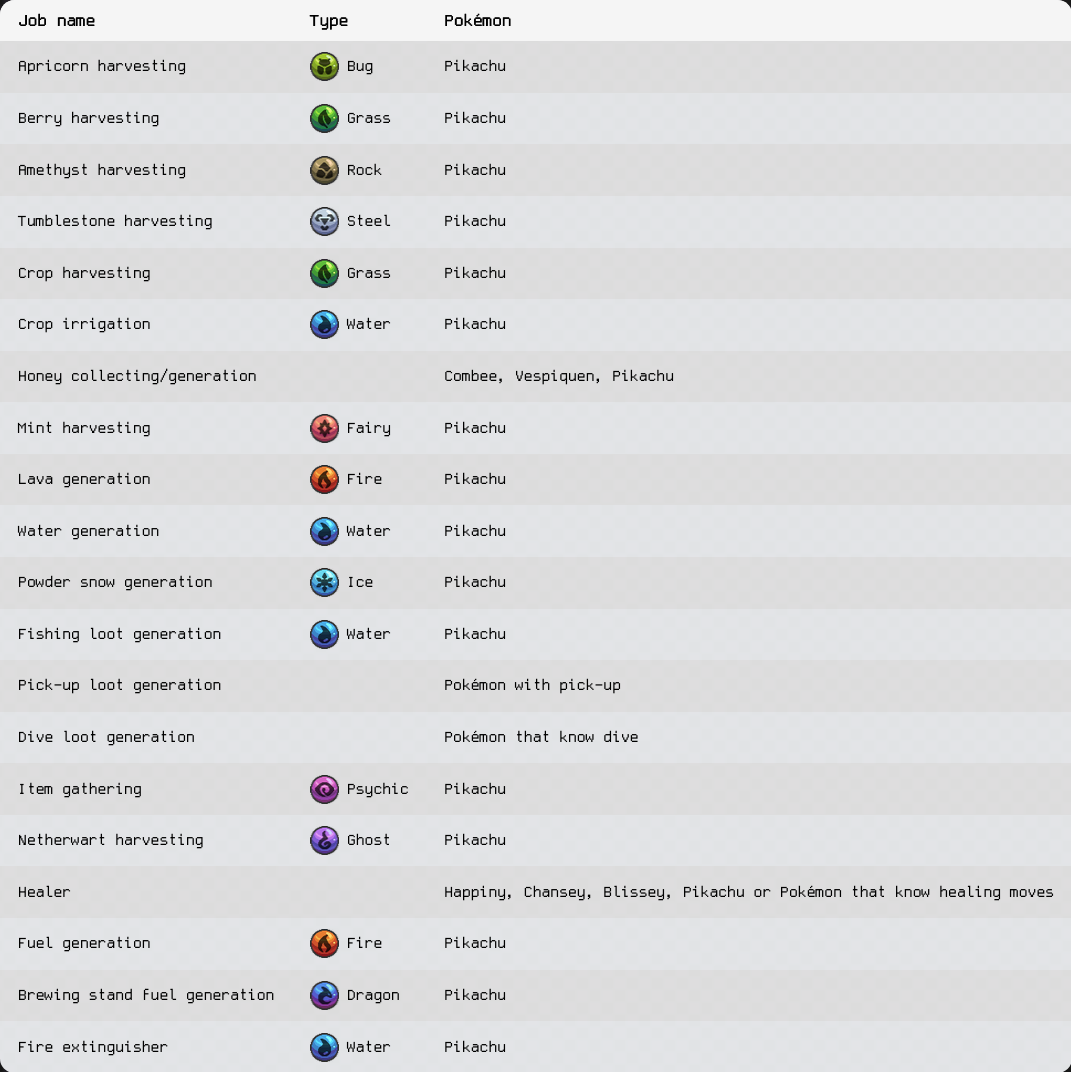
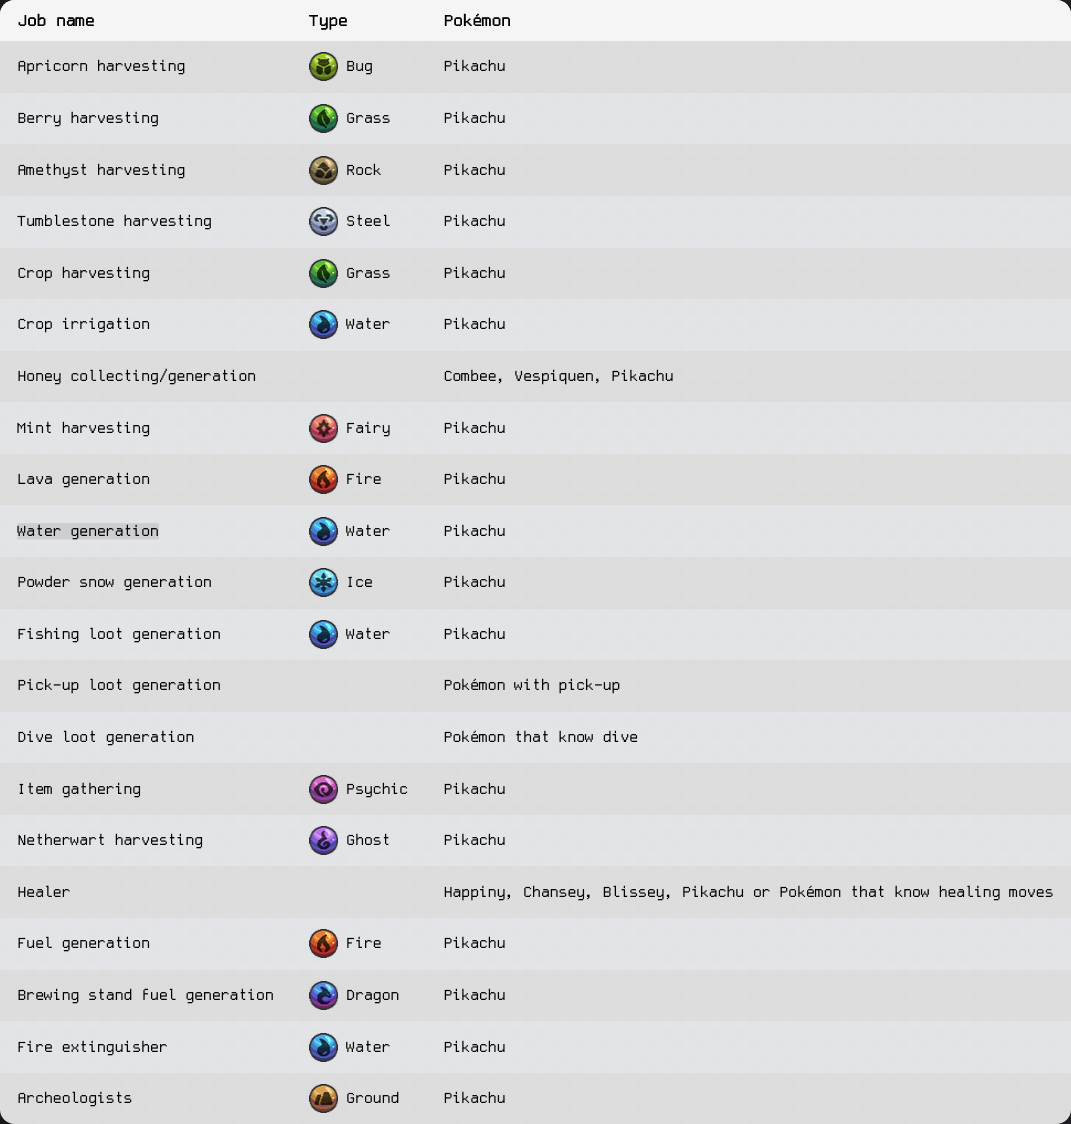
Implement archeologists

diff --git a/common/src/main/kotlin/accieo/cobbleworkers/jobs/Archeologist.kt b/common/src/main/kotlin/accieo/cobbleworkers/jobs/Archeologist.kt
@@ -1,0 +1,167 @@
+/*
+ * Copyright (C) 2025 Accieo
+ *
+ * This Source Code Form is subject to the terms of the Mozilla Public
+ * License, v. 2.0. If a copy of the MPL was not distributed with this
+ * file, You can obtain one at https://mozilla.org/MPL/2.0/.
+ */
+
+package accieo.cobbleworkers.jobs
+
+import accieo.cobbleworkers.cache.CobbleworkersCacheManager
+import accieo.cobbleworkers.config.CobbleworkersConfigHolder
+import accieo.cobbleworkers.enums.JobType
+import accieo.cobbleworkers.interfaces.Worker
+import accieo.cobbleworkers.utilities.CobbleworkersInventoryUtils
+import accieo.cobbleworkers.utilities.CobbleworkersNavigationUtils
+import accieo.cobbleworkers.utilities.CobbleworkersTypeUtils
+import com.cobblemon.mod.common.entity.pokemon.PokemonEntity
+import net.minecraft.block.Block
+import net.minecraft.block.Blocks
+import net.minecraft.item.ItemStack
+import net.minecraft.loot.context.LootContextParameterSet
+import net.minecraft.loot.context.LootContextParameters
+import net.minecraft.loot.context.LootContextTypes
+import net.minecraft.registry.RegistryKey
+import net.minecraft.registry.RegistryKeys
+import net.minecraft.server.world.ServerWorld
+import net.minecraft.util.Identifier
+import net.minecraft.util.math.BlockPos
+import net.minecraft.world.World
+import java.util.UUID
+import kotlin.text.lowercase
+
+object Archeologist : Worker {
+    private val config = CobbleworkersConfigHolder.config.archeology
+    private val cooldownTicks get() = config.archeologyLootingCooldownSeconds * 20L
+    private val lastGenerationTime = mutableMapOf<UUID, Long>()
+    private val heldItemsByPokemon = mutableMapOf<UUID, List<ItemStack>>()
+    private val failedDepositLocations = mutableMapOf<UUID, MutableSet<BlockPos>>()
+    private val validBlocks: Set<Block> = setOf(
+        Blocks.DIRT,
+        Blocks.GRAVEL,
+        Blocks.MUD,
+        Blocks.COARSE_DIRT,
+        Blocks.ROOTED_DIRT,
+    )
+
+    override val jobType: JobType = JobType.Archeologist
+    override val blockValidator: ((World, BlockPos) -> Boolean) = { world: World, pos: BlockPos ->
+        val state = world.getBlockState(pos)
+        val aboveState = world.getBlockState(pos.up())
+        state.block in validBlocks && aboveState.isAir
+    }
+
+    /**
+     * Determines if Pokémon is eligible to be an archeologist.
+     * NOTE: This is used to prevent running the tick method unnecessarily.
+     */
+    override fun shouldRun(pokemonEntity: PokemonEntity): Boolean {
+        if (!config.archeologistsEnabled) return false
+
+        return  CobbleworkersTypeUtils.isAllowedByType(config.typeDoesArcheology, pokemonEntity) || isDesignatedHarvester(pokemonEntity)
+    }
+
+    /**
+     * Main logic loop for the archeologist, executed each tick.
+     * Delegates to state handlers handleHarvesting and handleDepositing
+     * to manage the current task of the Pokémon.
+     *
+     * NOTE: Origin refers to the pasture's block position.
+     */
+    override fun tick(world: World, origin: BlockPos, pokemonEntity: PokemonEntity) {
+        val pokemonId = pokemonEntity.pokemon.uuid
+        val heldItems = heldItemsByPokemon[pokemonId]
+
+        if (heldItems.isNullOrEmpty()) {
+            failedDepositLocations.remove(pokemonId)
+            handleHarvesting(world, origin, pokemonEntity)
+        } else {
+            CobbleworkersInventoryUtils.handleDepositing(world, origin, pokemonEntity, heldItems,
+                failedDepositLocations,
+                heldItemsByPokemon
+            )
+        }
+    }
+
+    /**
+     * Handles logic for archeologist when the Pokémon is not holding items.
+     */
+    private fun handleHarvesting(world: World, origin: BlockPos, pokemonEntity: PokemonEntity) {
+        val pokemonId = pokemonEntity.pokemon.uuid
+        val closestBlock = findClosestArcheologySpot(world, origin) ?: return
+        val currentTarget = CobbleworkersNavigationUtils.getTarget(pokemonId, world)
+
+        if (currentTarget == null) {
+            if (!CobbleworkersNavigationUtils.isTargeted(closestBlock, world) && !CobbleworkersNavigationUtils.isRecentlyExpired(closestBlock, world)) {
+                CobbleworkersNavigationUtils.claimTarget(pokemonId, closestBlock, world)
+            }
+            return
+        }
+
+        if (currentTarget == closestBlock) {
+            CobbleworkersNavigationUtils.navigateTo(pokemonEntity, closestBlock)
+        }
+
+        if (CobbleworkersNavigationUtils.isPokemonAtPosition(pokemonEntity, currentTarget)) {
+            handleGeneration(world, closestBlock, pokemonEntity)
+            CobbleworkersNavigationUtils.releaseTarget(pokemonId, world)
+        }
+    }
+
+    /**
+     * Scans the pasture's block surrounding area for the closest archeology spot.
+     */
+    private fun findClosestArcheologySpot(world: World, origin: BlockPos): BlockPos? {
+        val possibleTargets = CobbleworkersCacheManager.getTargets(origin, jobType)
+        if (possibleTargets.isEmpty()) return null
+
+        return possibleTargets
+            .filter { pos ->
+                blockValidator(world, pos) && !CobbleworkersNavigationUtils.isRecentlyExpired(pos, world)
+            }
+            .minByOrNull { it.getSquaredDistance(origin) }
+    }
+
+    /**
+     * Handles logic for generating loot from cobblemon loot table.
+     */
+    fun handleGeneration(world: World, origin: BlockPos, pokemonEntity: PokemonEntity) {
+        val pokemonId = pokemonEntity.pokemon.uuid
+        val now = world.time
+        val lastTime = lastGenerationTime[pokemonId] ?: 0L
+
+        if (now - lastTime < cooldownTicks) {
+            return
+        }
+
+        val lootParams = LootContextParameterSet.Builder(world as ServerWorld)
+            .add(LootContextParameters.ORIGIN, origin.toCenterPos())
+            .add(LootContextParameters.THIS_ENTITY, pokemonEntity)
+            .build(LootContextTypes.CHEST)
+
+        val lootTables = config.lootTables.mapNotNull { Identifier.tryParse(it) }
+
+        if (lootTables.isEmpty()) return
+
+        val selectedId = lootTables.random()
+
+        val lootTableKey = RegistryKey.of(RegistryKeys.LOOT_TABLE, selectedId)
+        val lootTable = world.server.reloadableRegistries.getLootTable(lootTableKey)
+        val drops = lootTable.generateLoot(lootParams)
+
+        if (drops.isNotEmpty()) {
+            lastGenerationTime[pokemonId] = now
+            heldItemsByPokemon[pokemonId] = drops
+        }
+    }
+
+    /**
+     * Checks if the Pokémon qualifies as an archeologist because its species is
+     * explicitly listed in the config.
+     */
+    private fun isDesignatedHarvester(pokemonEntity: PokemonEntity): Boolean {
+        val speciesName = pokemonEntity.pokemon.species.translatedName.string.lowercase()
+        return config.archeologists.any { it.lowercase() == speciesName }
+    }
+}

diff --git a/common/src/main/kotlin/accieo/cobbleworkers/config/CobbleworkersConfig.kt b/common/src/main/kotlin/accieo/cobbleworkers/config/CobbleworkersConfig.kt
@@ -78,6 +78,9 @@ class CobbleworkersConfig : ConfigData {
     @ConfigEntry.Gui.CollapsibleObject
     var extinguisher = ExtinguisherGroup()
 
+    @ConfigEntry.Gui.CollapsibleObject
+    var archeology = ArcheologyGroup()
+
     class GeneralGroup {
         @ConfigEntry.BoundedDiscrete(min = 10, max = 30)
         var blocksScannedPerTick = 15
@@ -283,5 +286,19 @@ class CobbleworkersConfig : ConfigData {
 
         @ConfigEntry.Gui.EnumHandler(option = ConfigEntry.Gui.EnumHandler.EnumDisplayOption.DROPDOWN)
         var typeExtinguishesFire: CobbleworkersConfigPokemonType = CobbleworkersConfigPokemonType.WATER
+    }
+
+    class ArcheologyGroup {
+        var archeologistsEnabled = true
+        var archeologists: MutableList<String> = mutableListOf("pikachu")
+
+        var archeologyLootingCooldownSeconds: Long = 80
+
+        var lootTables: MutableList<String> = mutableListOf(
+            "cobbleworkers:archeology_treasure",
+        )
+
+        @ConfigEntry.Gui.EnumHandler(option = ConfigEntry.Gui.EnumHandler.EnumDisplayOption.DROPDOWN)
+        var typeDoesArcheology: CobbleworkersConfigPokemonType = CobbleworkersConfigPokemonType.GROUND
     }
 }

diff --git a/common/src/main/resources/assets/cobbleworkers/infographic/index.html b/common/src/main/resources/assets/cobbleworkers/infographic/index.html
@@ -169,6 +169,11 @@
 				<td class="type-cell"><span class="type-icon" data-type="Water"></span>Water</td>
 				<td>Pikachu</td>
 			</tr>
+			<tr>
+				<td>Archeologists</td>
+				<td class="type-cell"><span class="type-icon" data-type="Ground"></span>Ground</td>
+				<td>Pikachu</td>
+			</tr>
 		</tbody>
 	</table>
 	<script>

diff --git a/common/src/main/kotlin/accieo/cobbleworkers/jobs/WorkerDispatcher.kt b/common/src/main/kotlin/accieo/cobbleworkers/jobs/WorkerDispatcher.kt
@@ -24,6 +24,7 @@ object WorkerDispatcher {
     private val workers: List<Worker> = listOf(
         ApricornHarvester,
         AmethystHarvester,
+        Archeologist,
         BerryHarvester,
         BrewingStandFuelGenerator,
         CropHarvester,

diff --git a/common/src/main/kotlin/accieo/cobbleworkers/enums/JobType.kt b/common/src/main/kotlin/accieo/cobbleworkers/enums/JobType.kt
@@ -11,6 +11,7 @@ package accieo.cobbleworkers.enums
 enum class JobType {
     AmethystHarvester,
     ApricornHarvester,
+    Archeologist,
     BerryHarvester,
     BrewingStandFuelGenerator,
     CropHarvester,
